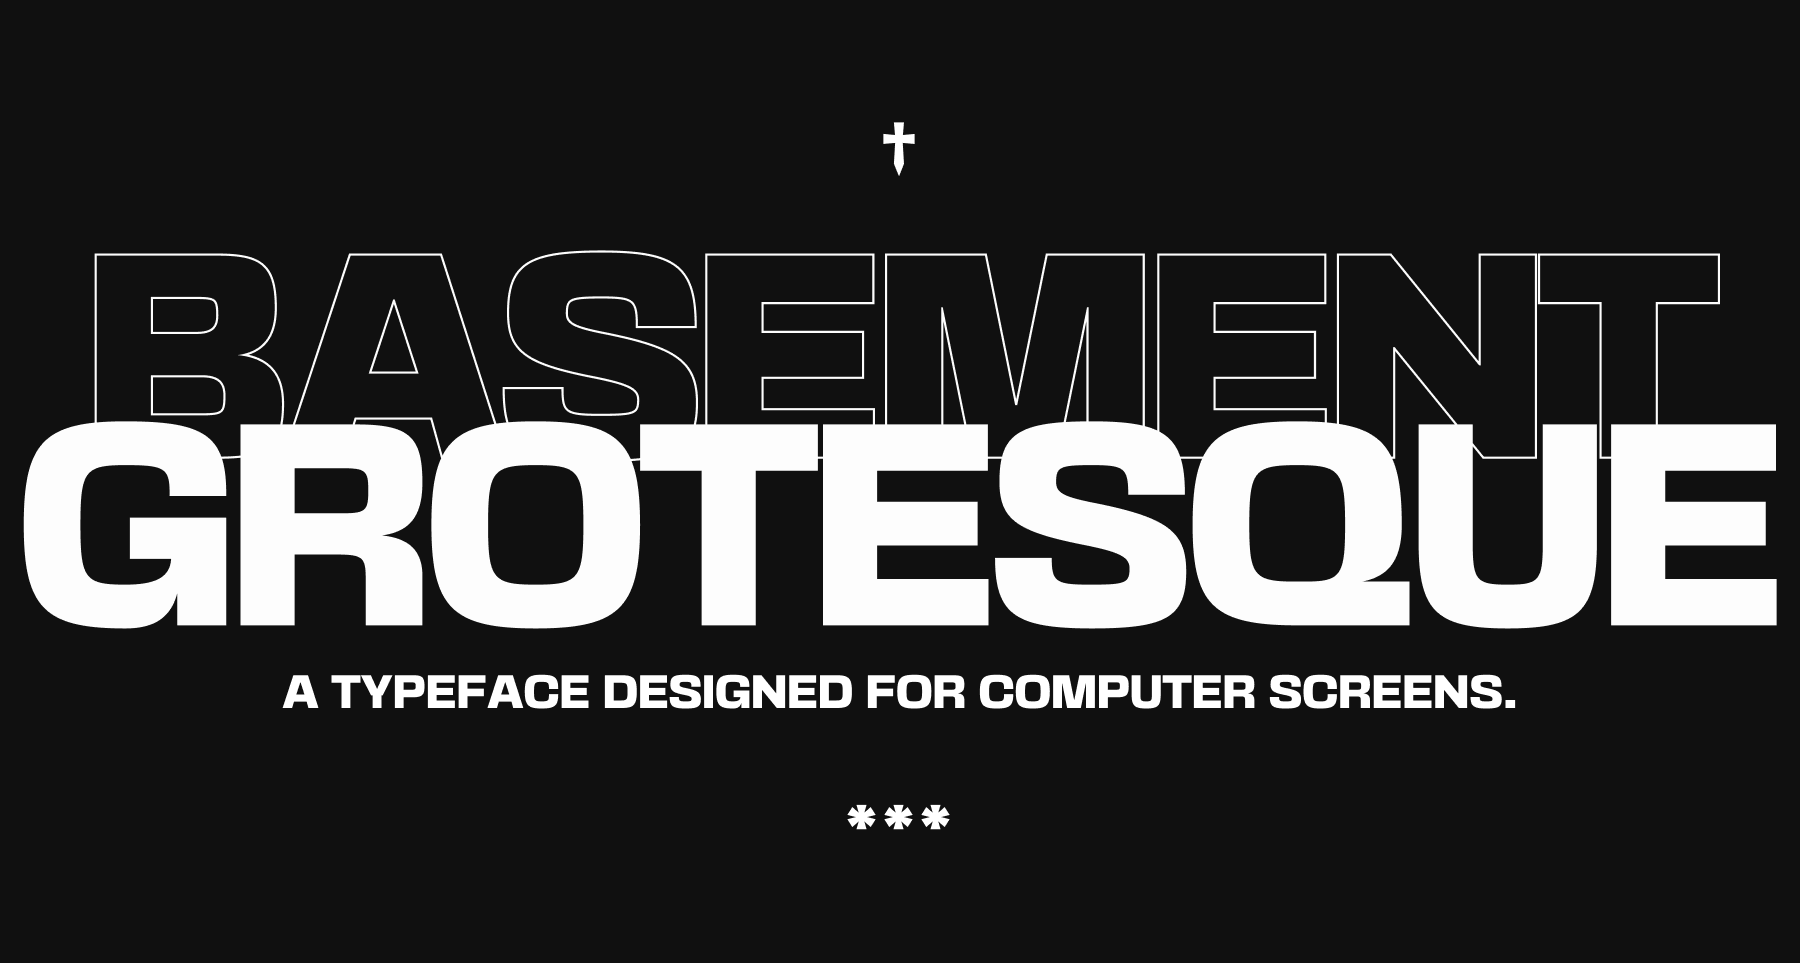
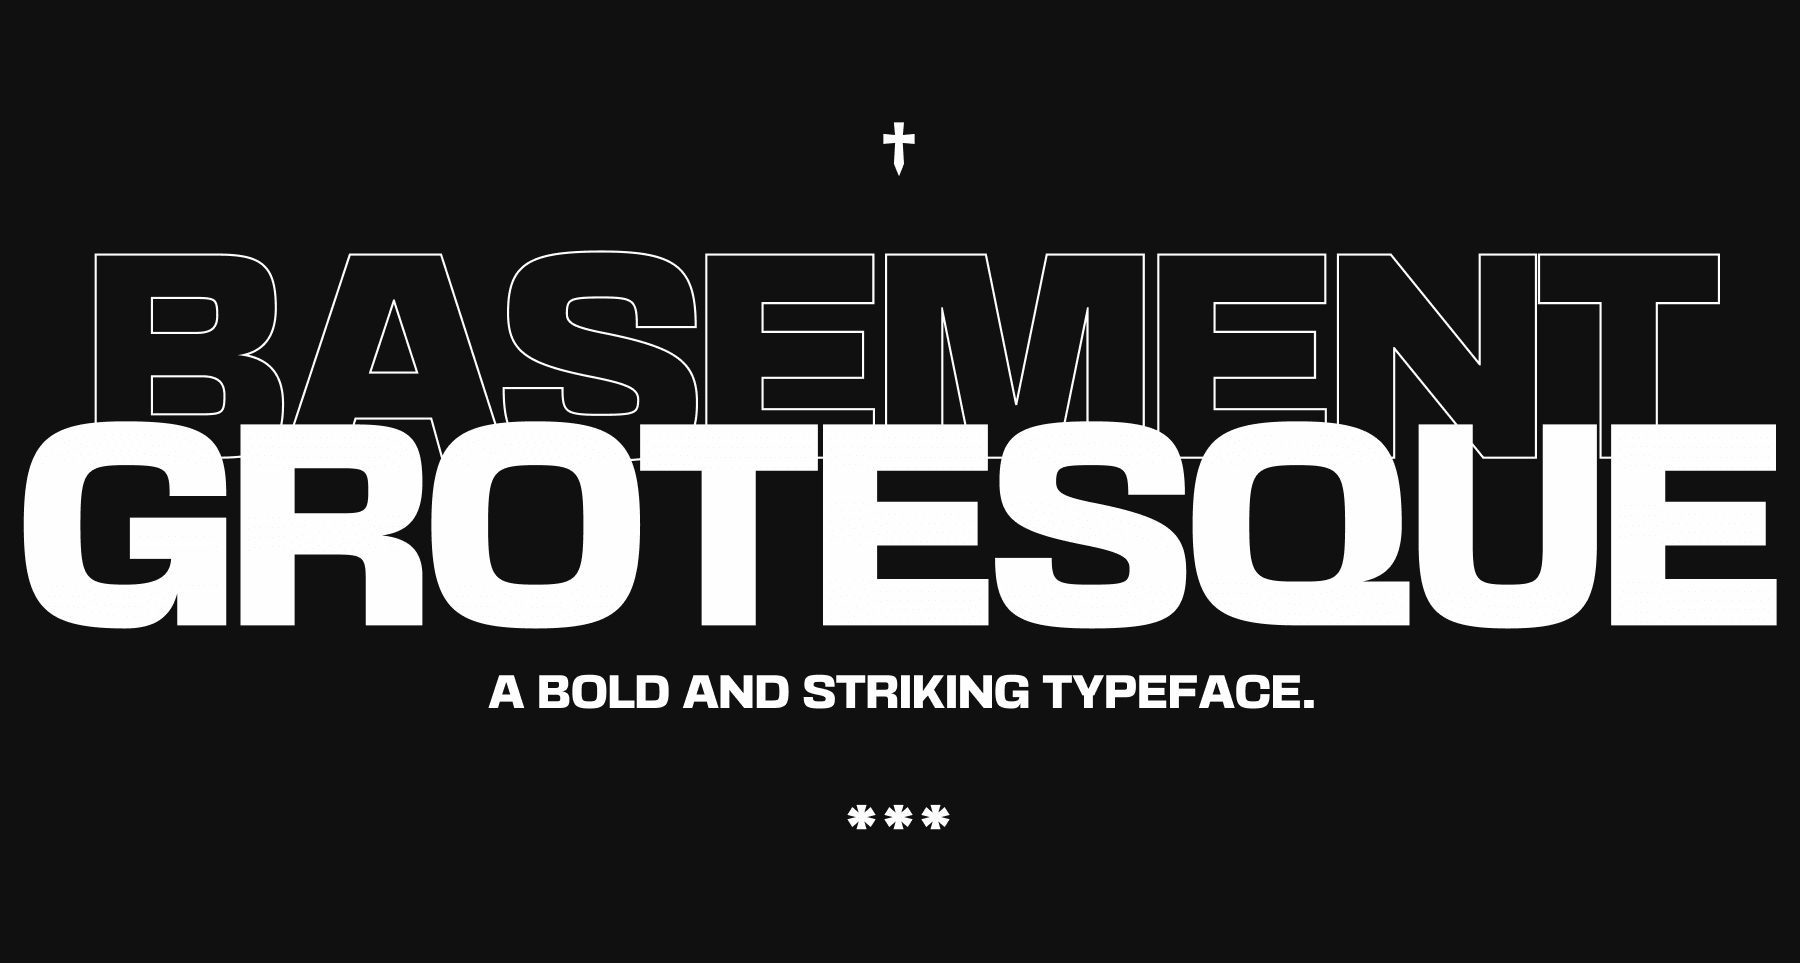
update meta

Changed region(s): [[0.1556, 0.6846, 0.84, 0.7469]]

diff --git a/src/components/common/head.tsx b/src/components/common/head.tsx
@@ -6,8 +6,8 @@ import NextHead from 'next/head'
 import { useMedia } from 'hooks/use-media'
 
 const defaultMeta = {
-  title: 'Basement Grotesque | basement.studio',
-  description: `A minimalist's guide to show our font.`,
+  title: 'basement grotesque by basement.studio',
+  description: `basement grotesque is the studio’s first venture into the daunting but exciting world of type design. Striking and unapologetically so.`,
   ogImage: `${siteOrigin}/og.png`
 }
 
